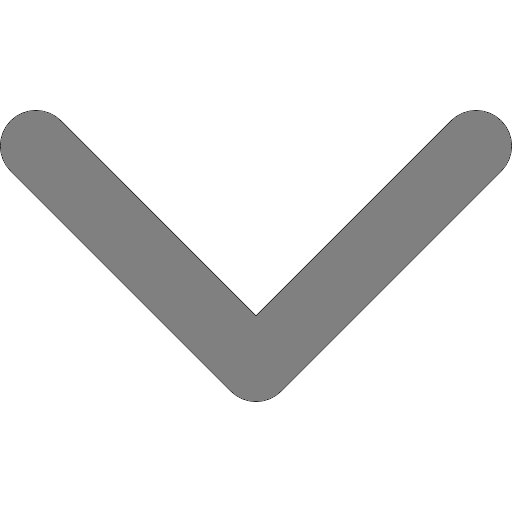
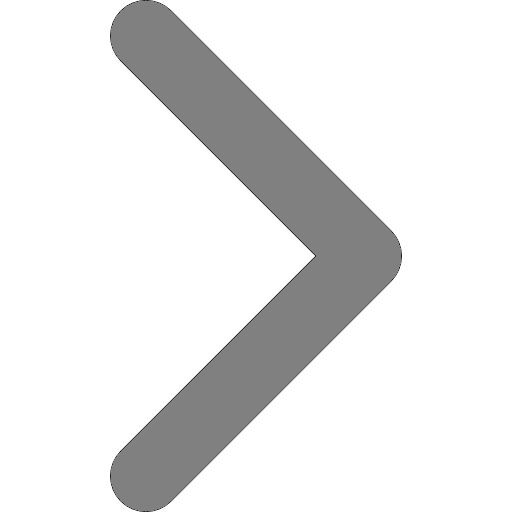
Make dropdown arrows to rotate when clicked and edit font weight and sizes to display hierarchy between elements in project item

Changed region(s): [[0.1875, 0.0, 1.0, 0.5312], [0.0, 0.1875, 0.5312, 1.0]]

diff --git a/src/frontend/src/components/Project.jsx b/src/frontend/src/components/Project.jsx
@@ -1,7 +1,9 @@
 import { useState, useContext } from 'react';
 import LanguageContext from "../LanguageContext"
 import DocumentInfo from './DocumentInfo';
-import arrow from '../assets/dropdown-arrow.png'
+import arrowDown from '../assets/dropdown-arrow-down.png'
+import arrowRight from '../assets/dropdown-arrow-right.png'
+
 
 const Project = ({ step, project, selectedProjects, setSelectedProjects, location }) => {
 	const [expandedContent, setExpandedContent] = useState(false);
@@ -95,16 +97,26 @@ const Project = ({ step, project, selectedProjects, setSelectedProjects, locatio
 			{!project.heTunnus && <strong>{project.valmistelutunnus}</strong>}
 			{project.heNimi &&
 				<div>
-					{<a className='document-a' href={project["heUrl"][`${language[0]}`]} target='_blank' rel='noopener noreferrer'>{project["heNimi"][`${language[0]}`] || project["heNimi"][`${language[1]}`]}</a>}
+					{<a className='project-a' href={project["heUrl"][`${language[0]}`]} target='_blank' rel='noopener noreferrer'>{project["heNimi"][`${language[0]}`] || project["heNimi"][`${language[1]}`]}</a>}
 				</div>}
-			<p className='document-category-name-p' onClick={() => setExpandedContent(!expandedContent)}>
+			<p className='document-list-name-p' onClick={() => setExpandedContent(!expandedContent)}>
 				{t.documents} ({documentCount})
-				<img
-					className='dropdown-arrow'
-					src={arrow}
-					alt='dropdown arrow'
-					onClick={() => setExpandedContent(!expandedContent)}
-				/>
+				{expandedContent ? (
+					<img
+						className='dropdown-arrow'
+						src={arrowDown}
+						alt='dropdown arrow'
+						onClick={() => setExpandedContent(!expandedContent)}
+					/>
+				) : (
+					<img
+						className='dropdown-arrow'
+						src={arrowRight}
+						alt='dropdown arrow'
+						onClick={() => setExpandedContent(!expandedContent)}
+					/>
+				)}
+
 			</p>
 			{expandedContent &&
 				<div className='expanded-content'>

diff --git a/src/frontend/src/components/DocumentInfo.jsx b/src/frontend/src/components/DocumentInfo.jsx
@@ -1,6 +1,7 @@
 import { useState, useEffect, useContext } from "react"
 import Submission from "./Submission"
-import arrow from '../assets/dropdown-arrow.png'
+import arrowDown from '../assets/dropdown-arrow-down.png'
+import arrowRight from '../assets/dropdown-arrow-right.png'
 import greyArrow from '../assets/grey-dropdown-arrow.png'
 import LanguageContext from "../LanguageContext"
 
@@ -69,12 +70,20 @@ const DocumentInfo = ({ type, projectId, submissions, objectName, header, setSel
 				{submissions.length > 0 ? (
 					<p className='document-category-name-p' onClick={() => setExpanded(!expanded)}>
 						{header} ({submissions.length})
-						<img
-							className='dropdown-arrow'
-							src={arrow}
-							alt='dropdown arrow'
-							onClick={() => setExpanded(!expanded)}
-						/>
+						{expanded ? (
+							<img
+								className='dropdown-arrow'
+								src={arrowDown}
+								alt='dropdown arrow'
+								onClick={() => setExpanded(!expanded)}
+							/>) : (
+							<img
+								className='dropdown-arrow'
+								src={arrowRight}
+								alt='dropdown arrow'
+								onClick={() => setExpanded(!expanded)}
+							/>
+						)}
 					</p>
 				) : (
 					<p className='document-category-name-p-grey'>

diff --git a/src/frontend/src/App.css b/src/frontend/src/App.css
@@ -128,7 +128,8 @@ input[type="text"] {
 
 .dropdown-arrow {
 	max-width: 1rem;
-	margin-left: 3px;
+	margin-left: 4px;
+	margin-bottom: 3px;
 }
 
 /* positioning */
@@ -245,8 +246,22 @@ input[type="text"] {
 
 /* custom text elements */
 
+.document-list-name-p {
+	cursor: pointer;
+	display: flex;
+	align-items: end;
+	font-weight: bold;
+}
+
+.document-list-name-p:hover {
+	cursor: pointer;
+	text-decoration: underline;
+}
+
 .document-category-name-p {
 	cursor: pointer;
+	display: flex;
+	align-items: end;
 }
 
 .document-category-name-p:hover {
@@ -256,6 +271,8 @@ input[type="text"] {
 
 .document-category-name-p-grey {
 	cursor: pointer;
+	display: flex;
+	align-items: end;
 	color: grey;
 }
 
@@ -282,6 +299,20 @@ input[type="text"] {
 
 
 /* custom links */
+
+.project-a {
+	margin-top: 1.2rem;
+	color: var(--primary);
+	text-decoration: none;
+	font-size: 1.3rem;
+	font-weight: 600;
+}
+
+.project-a:hover,
+.project-a:focus {
+	color: var(--primary-dark);
+	text-decoration: underline;
+}
 
 .document-a {
 	margin-top: 1rem;
